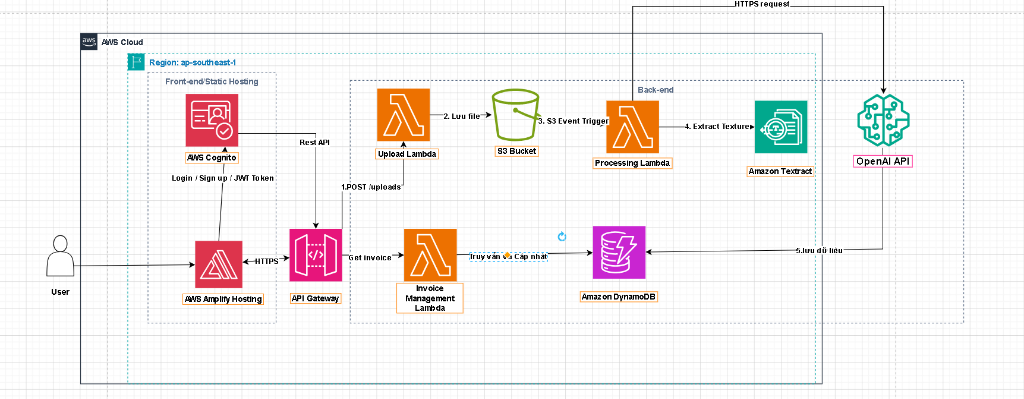
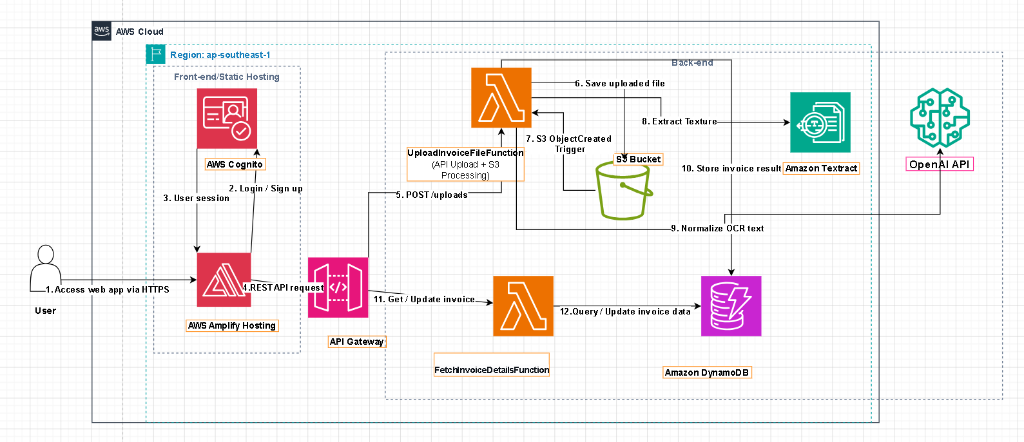
Add detailed architecture diagram to Proposal section

diff --git a/content/2-Proposal/_index.vi.md b/content/2-Proposal/_index.vi.md
@@ -124,6 +124,8 @@ API Gateway
 React Frontend
 ```
 
+![Sơ đồ kiến trúc chi tiết](/images/2-Proposal/detailed_architecture.png)
+
 Kiến trúc này giúp tách biệt rõ các chức năng:
 
 - Frontend dùng để tương tác với người dùng.

diff --git a/content/2-Proposal/_index.md b/content/2-Proposal/_index.md
@@ -124,6 +124,8 @@ API Gateway
 React Frontend
 ```
 
+![Detailed Architecture Diagram](/images/2-Proposal/detailed_architecture.png)
+
 This architecture helps clearly separate functions:
 
 - Frontend is used to interact with users.
